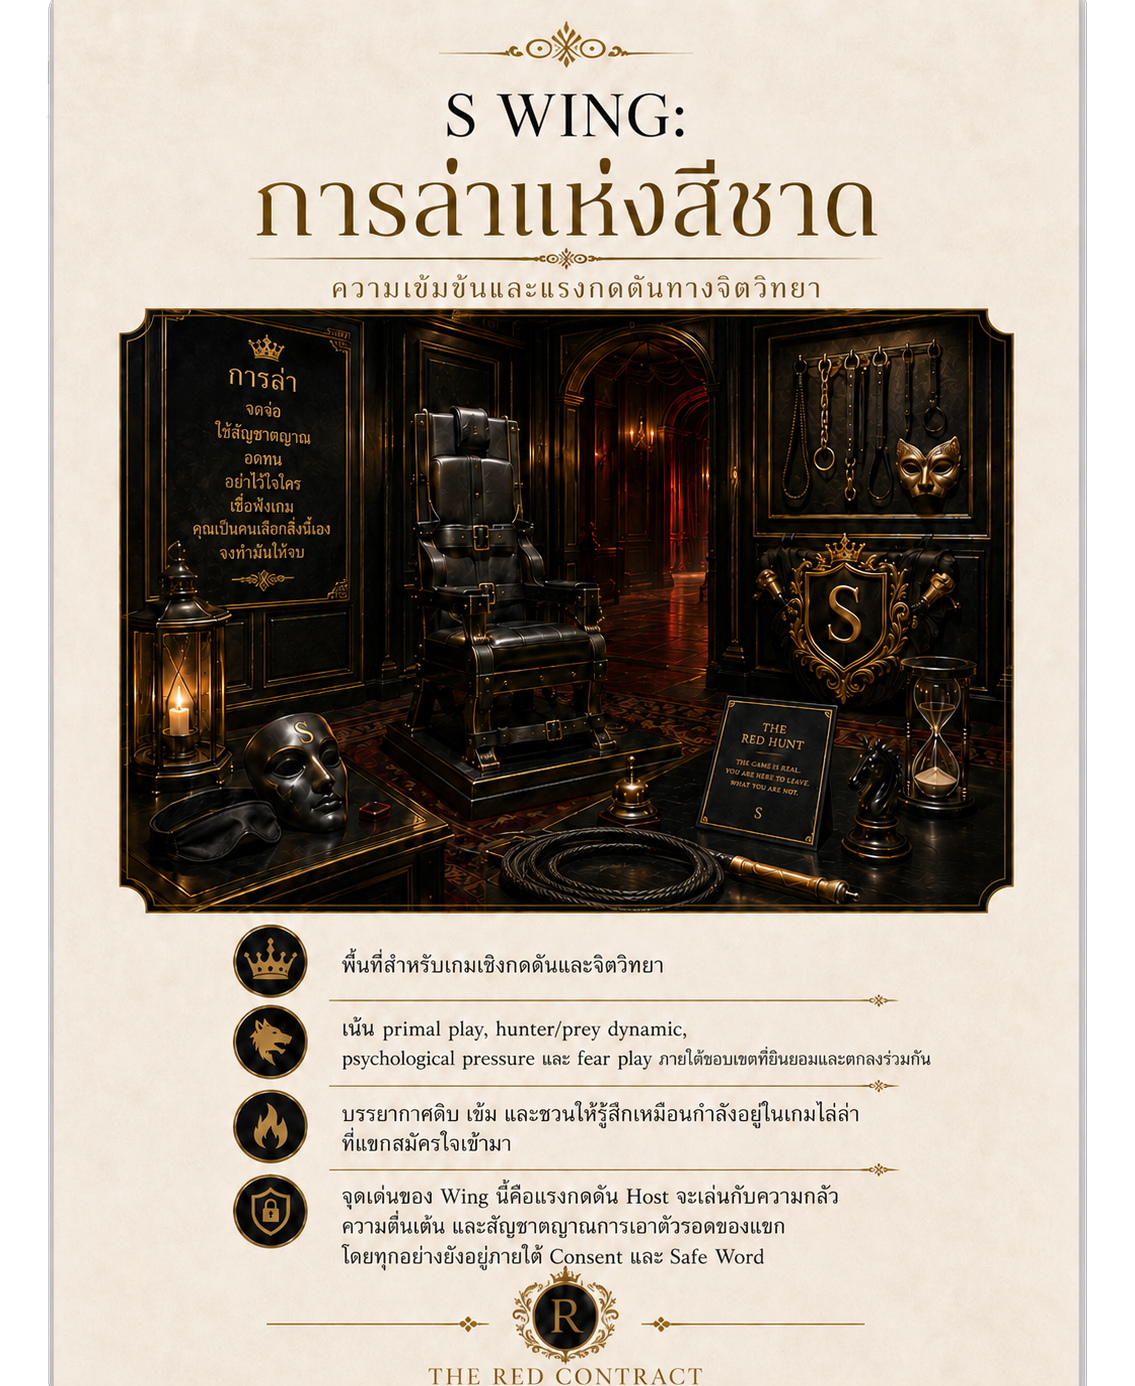
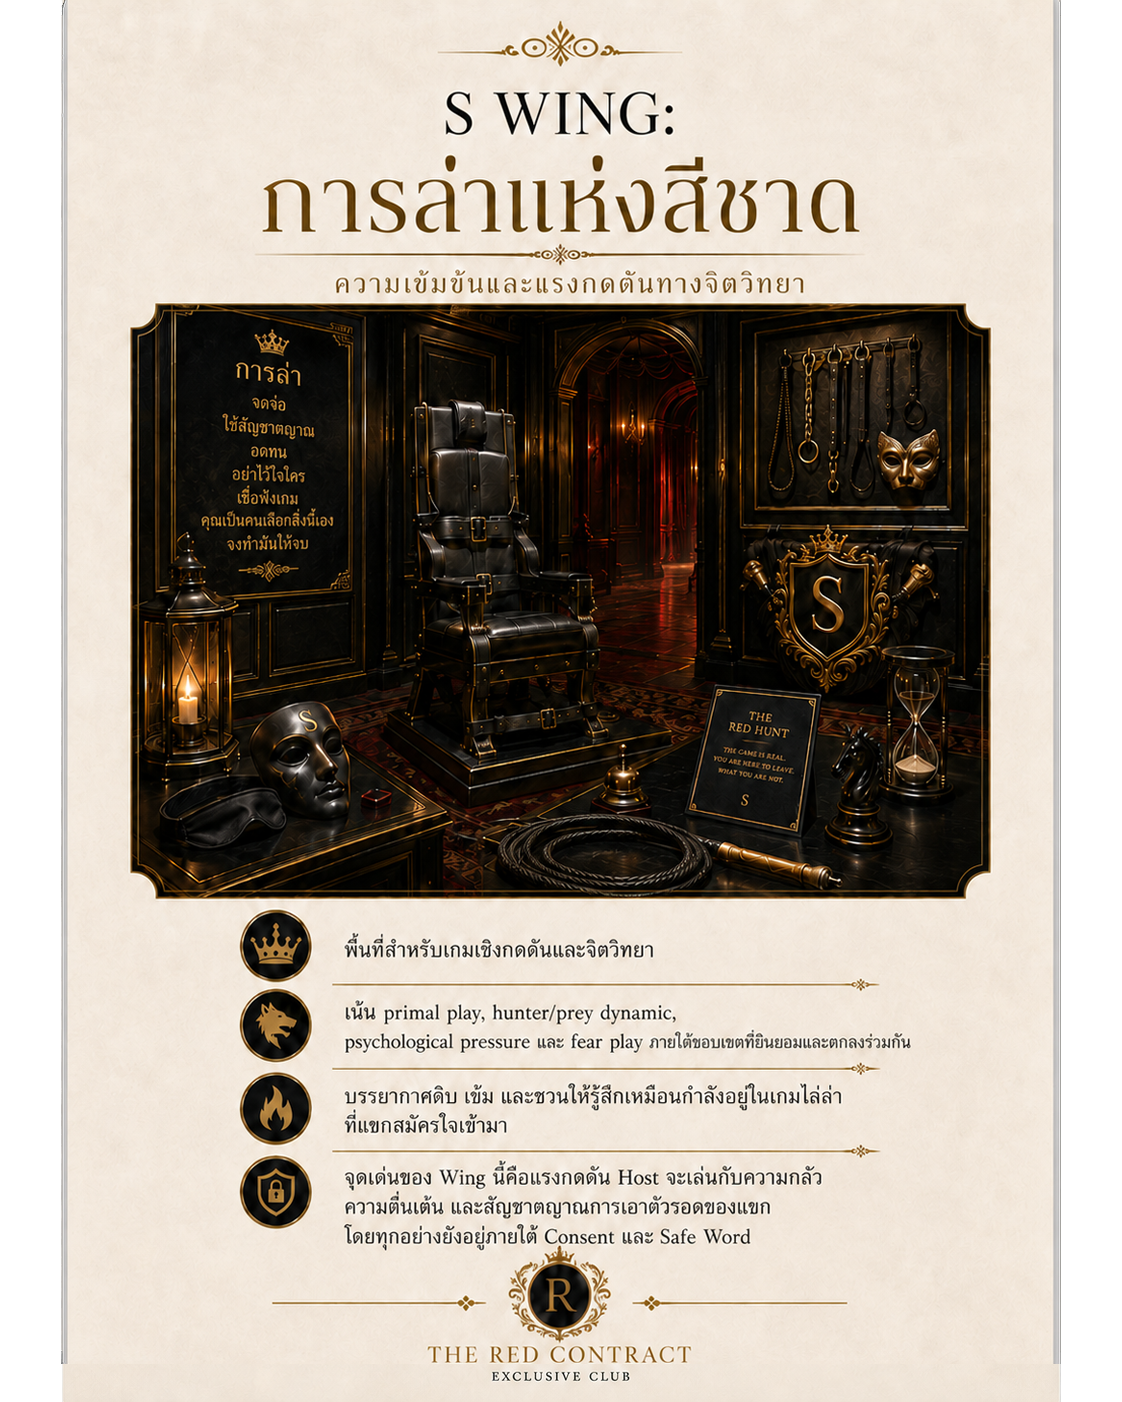
temp

Changed region(s): [[0.0936, 0.0, 0.9046, 1.0], [0.9358, 0.0, 0.967, 1.0], [0.0312, 0.0, 0.0624, 1.0]]

diff --git a/src/styles.css b/src/styles.css
@@ -549,6 +549,77 @@ button {
   backdrop-filter: blur(4px);
 }
 
+.language-backdrop {
+  position: fixed;
+  inset: 0;
+  z-index: 12;
+  display: grid;
+  place-items: center;
+  padding: 1rem;
+  background: rgba(0, 0, 0, 0.72);
+  backdrop-filter: blur(5px);
+}
+
+.language-card {
+  width: min(24rem, 100%);
+  padding: 1.2rem;
+  color: #d6a94a;
+  background: rgba(5, 7, 11, 0.88);
+  border: 1px solid rgba(214, 169, 74, 0.52);
+  border-radius: 8px;
+  box-shadow:
+    0 1.4rem 3rem rgba(0, 0, 0, 0.62),
+    0 0 2rem rgba(214, 169, 74, 0.16);
+}
+
+.language-card p {
+  margin: 0 0 0.9rem;
+  font-size: 0.95rem;
+  font-weight: 700;
+  line-height: 1.2;
+  text-align: center;
+  text-shadow: 0 1px 12px rgba(0, 0, 0, 0.9);
+}
+
+.language-actions {
+  display: grid;
+  grid-template-columns: repeat(2, minmax(0, 1fr));
+  gap: 0.75rem;
+}
+
+.language-choice {
+  display: grid;
+  grid-template-columns: auto 1fr;
+  align-items: center;
+  gap: 0.55rem;
+  min-height: 3.25rem;
+  padding: 0.65rem 0.8rem;
+  color: #fff8cc;
+  cursor: pointer;
+  background: rgba(15, 23, 42, 0.72);
+  border: 1px solid rgba(214, 169, 74, 0.42);
+  border-radius: 8px;
+  text-align: left;
+  transition:
+    background 160ms ease,
+    border-color 160ms ease,
+    box-shadow 160ms ease;
+}
+
+.language-choice:hover,
+.language-choice:focus-visible {
+  background: rgba(22, 30, 45, 0.92);
+  border-color: rgba(255, 216, 117, 0.88);
+  box-shadow:
+    0 0 0 1px rgba(255, 248, 204, 0.22),
+    0 0 20px rgba(214, 169, 74, 0.28);
+}
+
+.language-flag {
+  font-size: 1.45rem;
+  line-height: 1;
+}
+
 .image-overlay {
   display: block;
   max-width: min(88vw, 46rem);

diff --git a/src/App.tsx b/src/App.tsx
@@ -1,7 +1,7 @@
 import { ArrowLeft, ArrowUp, ChevronLeft, ChevronRight, Volume2, VolumeX, X } from "lucide-react";
 import type { CSSProperties, MouseEvent, PointerEvent } from "react";
 import { useEffect, useMemo, useRef, useState } from "react";
-import { type HotspotAction, type SceneId, type SceneOverlay, scenes } from "./scenes";
+import { type HotspotAction, type Language, type SceneId, type SceneOverlay, scenes } from "./scenes";
 
 type PopupContent = {
   title: string;
@@ -49,6 +49,16 @@ type EventName =
   | "card_clicked";
 
 const SESSION_ID_KEY = "red-contract-session-id";
+const LANGUAGE_KEY = "red-contract-language";
+
+const getStoredLanguage = (): Language | null => {
+  const storedLanguage = window.localStorage.getItem(LANGUAGE_KEY);
+  if (storedLanguage === "en" || storedLanguage === "th") {
+    return storedLanguage;
+  }
+
+  return null;
+};
 
 const getSessionId = () => {
   const existingSessionId = window.localStorage.getItem(SESSION_ID_KEY);
@@ -96,10 +106,13 @@ const randomBreachedAttemptAudio = [
 const getNextRandomBreachedAttemptMilestone = (from: number) => from + 10 + Math.floor(Math.random() * 61);
 
 function App() {
+  const initialLanguage = getStoredLanguage();
   const [sceneId, setSceneId] = useState<SceneId>("atrium");
   const [popup, setPopup] = useState<PopupContent | null>(null);
   const [imageOverlaySrc, setImageOverlaySrc] = useState<string | null>(null);
   const [galleryOverlay, setGalleryOverlay] = useState<GalleryOverlay | null>(null);
+  const [selectedLanguage, setSelectedLanguage] = useState<Language>(initialLanguage ?? "en");
+  const [isLanguageChooserOpen, setIsLanguageChooserOpen] = useState(initialLanguage === null);
   const [transitionPhase, setTransitionPhase] = useState<TransitionPhase>("idle");
   const [transitionTargetSceneId, setTransitionTargetSceneId] = useState<SceneId>("archive");
   const [transitionVideoSrc, setTransitionVideoSrc] = useState("/assets/transition1.mp4");
@@ -155,6 +168,12 @@ function App() {
   };
 
   const canDragScene = () => window.matchMedia("(max-width: 720px)").matches;
+
+  const chooseLanguage = (language: Language) => {
+    setSelectedLanguage(language);
+    window.localStorage.setItem(LANGUAGE_KEY, language);
+    setIsLanguageChooserOpen(false);
+  };
 
   useEffect(() => {
     const mediaQuery = window.matchMedia("(max-width: 720px)");
@@ -280,7 +299,7 @@ function App() {
       if (action.audioSrc) {
         void new Audio(action.audioSrc).play();
       }
-      setImageOverlaySrc(action.imageSrc);
+      setImageOverlaySrc(action.localizedImageSrcs?.[selectedLanguage] ?? action.imageSrc);
       return;
     }
 
@@ -294,7 +313,7 @@ function App() {
       if (action.audioSrc) {
         void new Audio(action.audioSrc).play();
       }
-      setGalleryOverlay({ imageSrcs: action.imageSrcs, index: 0 });
+      setGalleryOverlay({ imageSrcs: action.localizedImageSrcs?.[selectedLanguage] ?? action.imageSrcs, index: 0 });
       return;
     }
 
@@ -412,7 +431,7 @@ function App() {
           <span>{hotspot.label}</span>
         </button>
       )),
-    [clickCounts, displayedScene.hotspots, isHotspotAudioPlaying, isTransitioning, sceneId],
+    [clickCounts, displayedScene.hotspots, isHotspotAudioPlaying, isTransitioning, sceneId, selectedLanguage],
   );
 
   const handleSceneOverlay = (overlay: SceneOverlay) => {
@@ -435,12 +454,15 @@ function App() {
     }
 
     if (overlay.action.type === "gallery") {
-      setGalleryOverlay({ imageSrcs: overlay.action.imageSrcs, index: 0 });
+      setGalleryOverlay({
+        imageSrcs: overlay.action.localizedImageSrcs?.[selectedLanguage] ?? overlay.action.imageSrcs,
+        index: 0,
+      });
       return;
     }
 
     if (overlay.action.type === "image") {
-      setImageOverlaySrc(overlay.action.imageSrc);
+      setImageOverlaySrc(overlay.action.localizedImageSrcs?.[selectedLanguage] ?? overlay.action.imageSrc);
       return;
     }
 
@@ -507,7 +529,7 @@ function App() {
           <img src={overlay.src} alt="" aria-hidden="true" draggable={false} />
         </button>
       )) ?? [],
-    [displayedScene.overlays, isTransitioning],
+    [displayedScene.overlays, isTransitioning, selectedLanguage],
   );
 
   const finishTransition = () => {
@@ -526,6 +548,7 @@ function App() {
       isTransitioning ||
       imageOverlaySrc ||
       galleryOverlay ||
+      isLanguageChooserOpen ||
       !canDragScene() ||
       (target instanceof Element && target.closest(".icon-button, .close-button"))
     ) {
@@ -597,6 +620,7 @@ function App() {
       isTransitioning ||
       imageOverlaySrc ||
       galleryOverlay ||
+      isLanguageChooserOpen ||
       (target instanceof Element && target.closest(".icon-button, .close-button, .gallery-arrow"))
     ) {
       return;
@@ -758,6 +782,28 @@ function App() {
           >
             <ChevronRight size={28} aria-hidden="true" />
           </button>
+        </div>
+      ) : null}
+
+      {isLanguageChooserOpen ? (
+        <div className="language-backdrop" role="presentation">
+          <div className="language-card" role="dialog" aria-modal="true" aria-label="Choose language">
+            <p>Choose language</p>
+            <div className="language-actions">
+              <button className="language-choice" type="button" onClick={() => chooseLanguage("en")}>
+                <span className="language-flag" aria-hidden="true">
+                  🇬🇧
+                </span>
+                <span>English</span>
+              </button>
+              <button className="language-choice" type="button" onClick={() => chooseLanguage("th")}>
+                <span className="language-flag" aria-hidden="true">
+                  🇹🇭
+                </span>
+                <span>ไทย</span>
+              </button>
+            </div>
+          </div>
         </div>
       ) : null}
     </main>

diff --git a/src/scenes.ts b/src/scenes.ts
@@ -1,5 +1,11 @@
 export type SceneId = "atrium" | "door" | "archive" | "lineup" | "inside";
 
+export type Language = "en" | "th";
+
+export type LocalizedImageSrcs = Record<Language, string>;
+
+export type LocalizedGallerySrcs = Record<Language, string[]>;
+
 export type HotspotAction =
   | {
       type: "popup";
@@ -17,11 +23,13 @@ export type HotspotAction =
   | {
       type: "image";
       imageSrc: string;
+      localizedImageSrcs?: LocalizedImageSrcs;
       audioSrc?: string;
     }
   | {
       type: "gallery";
       imageSrcs: string[];
+      localizedImageSrcs?: LocalizedGallerySrcs;
       audioSrc?: string;
     };
 
@@ -49,10 +57,12 @@ export type SceneOverlay = {
   } | {
     type: "image";
     imageSrc: string;
+    localizedImageSrcs?: LocalizedImageSrcs;
     audioSrc?: string;
   } | {
     type: "gallery";
     imageSrcs: string[];
+    localizedImageSrcs?: LocalizedGallerySrcs;
     audioSrc?: string;
   };
 };
@@ -174,6 +184,20 @@ export const scenes: Record<SceneId, Scene> = {
             "/assets/s-room-en.png",
             "/assets/m-room-en.png",
           ],
+          localizedImageSrcs: {
+            en: [
+              "/assets/b-room-en.png",
+              "/assets/d-room-en.png",
+              "/assets/s-room-en.png",
+              "/assets/m-room-en.png",
+            ],
+            th: [
+              "/assets/b-room-th.png",
+              "/assets/d-room-th.png",
+              "/assets/s-room-th.png",
+              "/assets/m-room-th.png",
+            ],
+          },
         },
       },
       {
@@ -186,6 +210,10 @@ export const scenes: Record<SceneId, Scene> = {
         action: {
           type: "image",
           imageSrc: "/assets/member_en.png",
+          localizedImageSrcs: {
+            en: "/assets/member_en.png",
+            th: "/assets/member_th.png",
+          },
           audioSrc: "/assets/flip.mp3",
         },
       },
@@ -201,6 +229,10 @@ export const scenes: Record<SceneId, Scene> = {
         action: {
           type: "gallery",
           imageSrcs: ["/assets/rule_en_1.png", "/assets/rule_en_2.png"],
+          localizedImageSrcs: {
+            en: ["/assets/rule_en_1.png", "/assets/rule_en_2.png"],
+            th: ["/assets/rule_th_1.png", "/assets/rule_th_2.png"],
+          },
           audioSrc: "/assets/flip.mp3",
         },
       },

diff --git a/public/assets/README.md b/public/assets/README.md
@@ -28,12 +28,19 @@ These files are required by the current site and should be deployed with the app
 - `s_cover.png`
 - `m_cover.png`
 - `b-room-en.png`
+- `b-room-th.png`
 - `d-room-en.png`
+- `d-room-th.png`
 - `s-room-en.png`
+- `s-room-th.png`
 - `m-room-en.png`
+- `m-room-th.png`
 - `rule_en_1.png`
 - `rule_en_2.png`
+- `rule_th_1.png`
+- `rule_th_2.png`
 - `member_en.png`
+- `member_th.png`
 - `10.mp3`
 - `50.mp3`
 - `100.mp3`